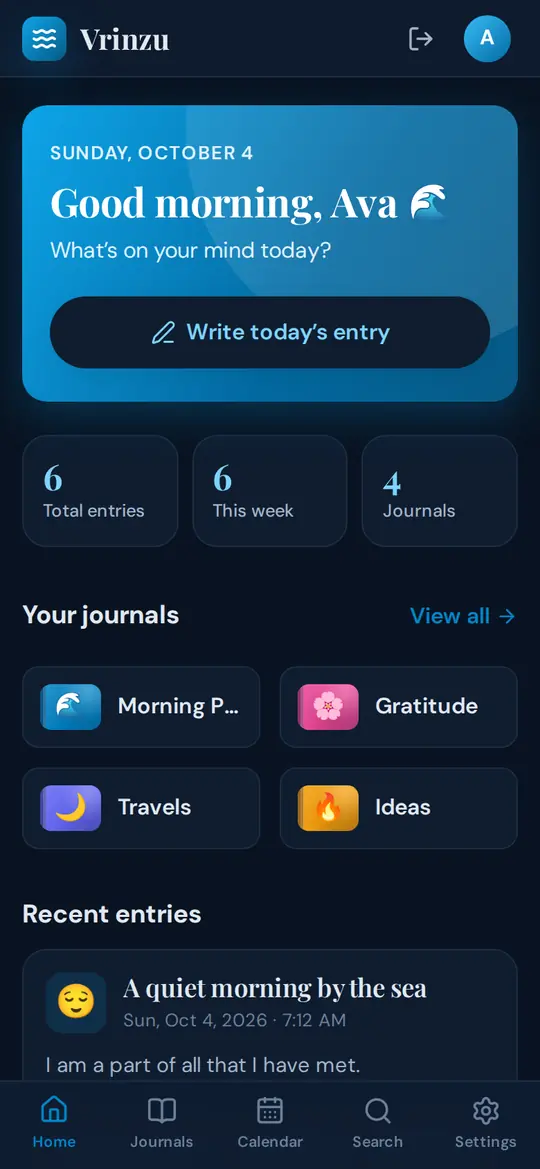
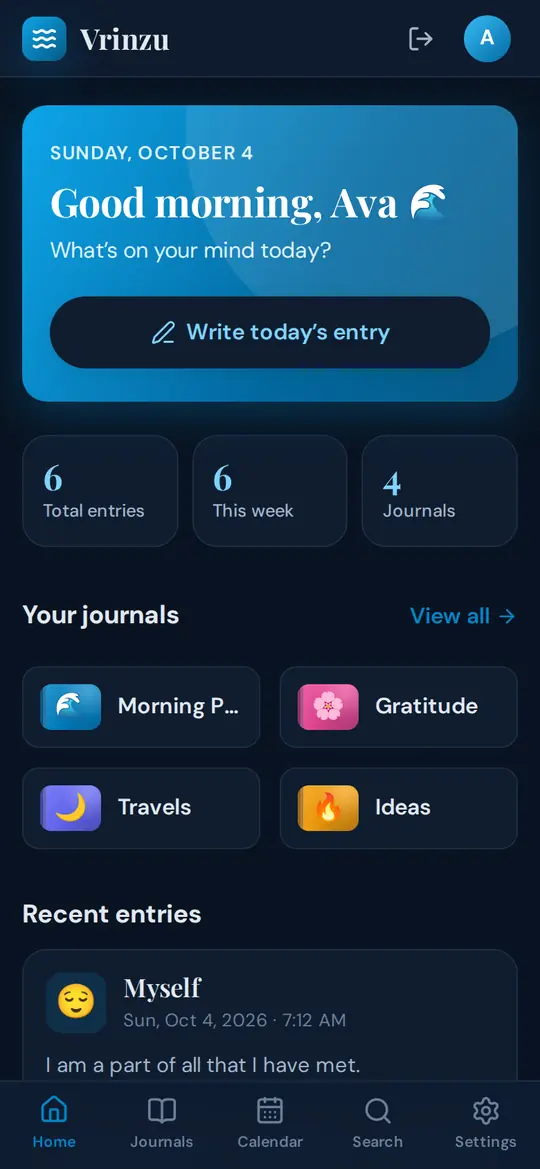
Retitle the hero sample entry to "Myself"
Retakes the landing hero screenshots (light and dark, desktop and phone)
with the entry titled "Myself"; they now also show the formatting toolbar.

Claude-Session: https://claude.ai/code/session_01Aj7WHZ4x4TKcjJunqyCnJN

Changed region(s): [[0.237, 0.8315, 0.8, 0.8623]]

diff --git a/src/pages/Landing.js b/src/pages/Landing.js
@@ -122,7 +122,7 @@ export default function Landing() {
                   src="/hero/desktop-light.webp"
                   width="1600"
                   height="1000"
-                  alt="The Vrinzu writing screen showing an entry titled A quiet morning by the sea"
+                  alt="The Vrinzu writing screen showing an entry titled Myself"
                   fetchpriority="high"
                 />
               </picture>
